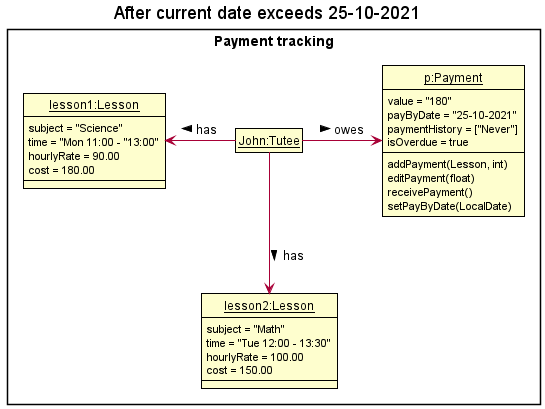
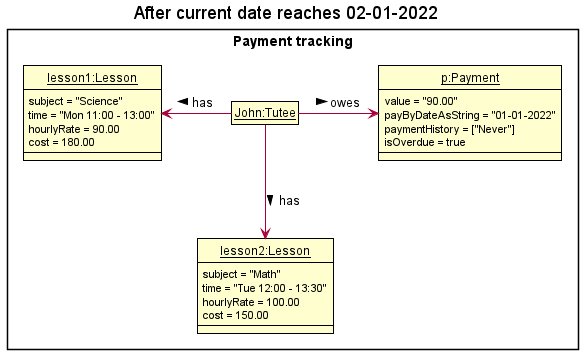
Update payment tracking object diagrams and remove sequence diagram

Changed region(s): [[0.0, 0.0, 0.9982, 0.9944]]

diff --git a/docs/DeveloperGuide.md b/docs/DeveloperGuide.md
@@ -181,8 +181,15 @@ of the second tutee found on the list. The information to be listed is based on
 
 ### Payment tracking feature
 
-The payment tracking feature is facilitated by `Payment`, `PaymentCommand`[Proposed]
-and `PaymentCommandParser`[Proposed].
+`Payment` keeps track of the payment details of the tutee, such as the amount of fees incurred, the payment due date and the payment history.
+
+#### Rationale
+
+A tutor may miscalculate fees, forget payment due dates, or have too many tutees to keep track of their payment information manually.
+
+#### Current Implementation
+
+The payment tracking feature is facilitated by `Payment`, `PaymentCommandParser`, `PaymentAddCommand` `PaymentSetAmountCommand`, `PaymentSetDateCommand` and `PaymentReceiveCommand`.
 
 `Payment` contains:
 * `value`  — the amount of fees incurred by the Tutee since the last payment date
@@ -190,44 +197,64 @@ and `PaymentCommandParser`[Proposed].
 * `paymentHistory`  — a list of dates which the Tutee previously paid on
 * `isOverdue` — a boolean flag which denotes if the payment is overdue
 
-Parsing the user's input through `PaymentCommand`, the user may:
-* `Payment#addPayment(Lesson, int)`  — Adds the cost of `Lesson` to total fees incurred, `int` times
-* `Payment#editPayment(float)`  — Updates the total fees incurred to the specified `float` amount
-* `Payment#setPayByDate(LocalDate)`  — Updates the pay-by date for the Tutee to the specified `LocalDate`
-* `Payment#receivePayment()`  — Resets the Tutee's incurred fees and updates their payment history
+Parsing the user's input through `PaymentCommandParser`, the user may generate any one of the following commands:
+* `PaymentAddCommand`  — Adds the cost of the lesson's fees to the tutee's current payment amount due
+* `PaymentSetAmoutnCommand`  — Sets the payment amount due for the tutee to the specified amount
+* `PaymentSetDateCommand`  — Sets the pay-by date for the tutee to the specified date
+* `PaymentReceiveCommand`  — Resets the tutee's incurred fees and pay-by-date, and updates their payment history
 
-[Proposed] Given below is an example scenario of how payments may be tracked.
+
+The following steps showcase how a tutee's payment details are managed by the user.
 
 Step 1. The user adds a new `Tutee` John to Track-O and the `Payment` object is initialized with default values.
 
-![PaymentTracking1](images/PaymentTracking1.png)
+<p align="center">
+    <img alt="PaymentTracking1" src="images/PaymentTracking1.png"/>
+</p>
 
-Step 2. After adding lessons to John, the user executes "payment 1 add/2 l/1", where John is index `1` in the `Tutee` list, and `lesson1` is index `1` in the `Lesson` set.
+Step 2. After adding lessons to John, the user executes "payment 1 lesson/1", where John is index `1` in the `Tutee` list, and `lesson1` is index `1` in the `Lesson` set.
 
-![PaymentTracking2](images/PaymentTracking2.png)
+<p align="center">
+    <img alt="PaymentTracking2" src="images/PaymentTracking2.png"/>
+</p>
 
-Step 3. The user executes "payment 1 edit/180" after accidentally overcharging fees previously.
+Step 3. The user executes "payment 1 amount/90" after accidentally overcharging fees previously.
 
-![PaymentTracking3](images/PaymentTracking3.png)
+<p align="center">
+    <img alt="PaymentTracking3" src="images/PaymentTracking3.png"/>
+</p>
 
-Step 4. The user executes "payment 1 by/25-10-2021", updating the `Payment#payByDate` for John.
+Step 4. The user executes "payment 1 by/01-01-2022", updating the `Payment#payByDate` for John.
 
-![PaymentTracking4](images/PaymentTracking4.png)
+<p align="center">
+    <img alt="PaymentTracking4" src="images/PaymentTracking4.png"/>
+</p>
 
 Step 5. In the event that the current date passes the `Payment#payByDate`, the `Payment#isOverdue` flag will turn `true`.
 
-![PaymentTracking5](images/PaymentTracking5.png)
+<p align="center">
+    <img alt="PaymentTracking5" src="images/PaymentTracking5.png"/>
+</p>
 
 Step 6. The user executes `payment 1 receive` and receives John's payment, updating the `Payment#paymentHistory` with the current date, and resetting `Payment#payByDate`, and `Payment#value` respectively.
 
-![PaymentTracking6](images/PaymentTracking6.png)
+<p align="center">
+    <img alt="PaymentTracking6" src="images/PaymentTracking6.png"/>
+</p>
 
+#### Design considerations
 
-The following sequence diagram shows how the add payment operation works, which is similar to how the other payment functions work as well:
+**Aspect: How payments are updated**
 
-![PaymentSequenceDiagram](images/PaymentSequenceDiagram.png)
-<div markdown="span" class="alert alert-info">:information_source: **Note:** The lifeline for `PaymentCommandParser` should end at the destroy marker (X) but due to a limitation of PlantUML, the lifeline reaches the end of diagram.
-</div>
+* **Option 1 (current choice):** Add a tutee's lesson's cost to their current payment amount due.
+    * Pros: Easy to implement and command would be short.
+    * Pros: Would be commonly used to increment tutee's payments directly after a lesson.
+    * Cons: Adding multiples of a lesson's cost requires multiple copies of the same command (i.e adding 3 lesson's worth of fees at once).
+
+* **Option 2:** Add a tutee's lesson's cost multiplied by an integer parameter to their current payment amount due
+    * Pros: The tutor can easily add multiples of a lesson's cost to a tutee.
+    * Cons: The additional integer parameter would require another layer of parsing and validation checking.
+    * Cons: Command would be more lengthy as it requires 3 keywords to execute (payment, lesson, integer).
 
 
 ### Schedule
